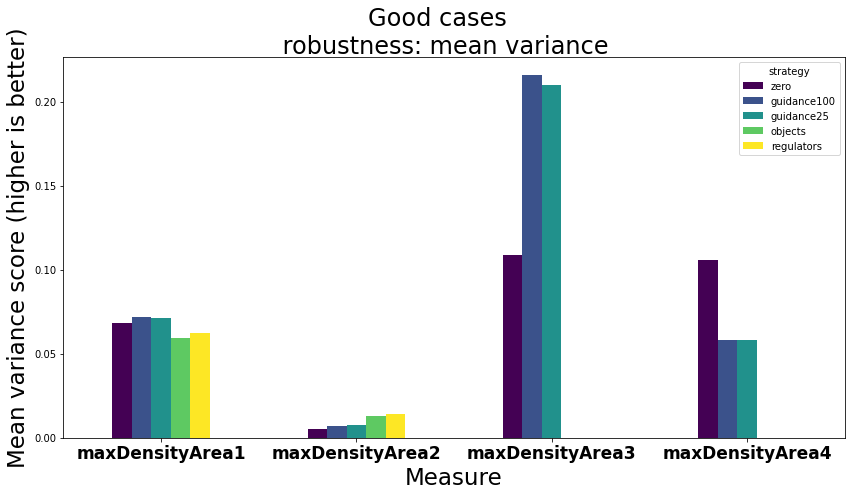
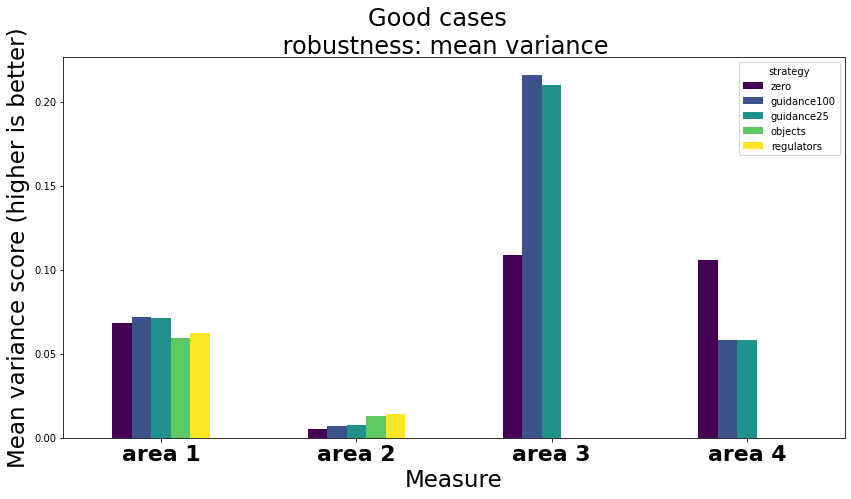
figures

diff --git a/analysis/control_exploration_results.py b/analysis/control_exploration_results.py
@@ -347,7 +347,7 @@ if __name__ == "__main__":
     fig.suptitle("Problematic cases \n robustness: mean variance", fontsize=24)
     ax.set_xlabel("Mean variance score (higher is better)", fontsize=23)
     ax.set_ylabel("Measure", fontsize=23)
-    plt.yticks(fontsize=17, weight="bold")
+    plt.yticks(fontsize=22, weight="bold")
     fig.savefig(
         "../figures/controlStrategiesMeanVarianceSpeedS1.png", bbox_inches="tight"
     )
@@ -358,7 +358,7 @@ if __name__ == "__main__":
     fig.suptitle("Good cases \n robustness: mean variance", fontsize=24)
     ax.set_xlabel("Mean variance score (higher is better)", fontsize=23)
     ax.set_ylabel("Measure", fontsize=23)
-    plt.yticks(fontsize=17, weight="bold")
+    plt.yticks(fontsize=22, weight="bold")
     fig.savefig(
         "../figures/controlStrategiesMeanVarianceSpeedS2.png", bbox_inches="tight"
     )
@@ -369,42 +369,60 @@ if __name__ == "__main__":
     fig.suptitle("worst cases \n robustness: mean variance", fontsize=24)
     ax.set_xlabel("Mean variance score (higher is better)", fontsize=23)
     ax.set_ylabel("Measure", fontsize=23)
-    plt.yticks(fontsize=17, weight="bold")
+    plt.yticks(fontsize=22, weight="bold")
     fig.savefig(
         "../figures/controlStrategiesMeanVarianceSpeedS3.png", bbox_inches="tight"
     )
 
     # plotting robustness mean variance density
     fig, ax = plt.subplots(figsize=(14, 7))
-    r_mean_variance_s1[
-        ["maxDensityArea1", "maxDensityArea2", "maxDensityArea3", "maxDensityArea4"]
-    ].T.plot.bar(ax=ax, colormap="viridis", rot=0)
+    d1 = r_mean_variance_s1.T.rename(
+        index={
+            "maxDensityArea1": "area 1",
+            "maxDensityArea2": "area 2",
+            "maxDensityArea3": "area 3",
+            "maxDensityArea4": "area 4",
+        }
+    ).drop("meanSpeed")
+    d1.plot.bar(ax=ax, colormap="viridis", rot=0)
     fig.suptitle("Problematic cases \n robustness: mean variance", fontsize=24)
     ax.set_xlabel("Measure", fontsize=23)
     ax.set_ylabel("Mean variance score (higher is better)", fontsize=23)
-    plt.xticks(fontsize=17, weight="bold")
+    plt.xticks(fontsize=22, weight="bold")
     fig.savefig(
         "../figures/controlStrategiesMeanVarianceMaxDensityS1.png", bbox_inches="tight"
     )
     fig, ax = plt.subplots(figsize=(14, 7))
-    r_mean_variance_s2[
-        ["maxDensityArea1", "maxDensityArea2", "maxDensityArea3", "maxDensityArea4"]
-    ].T.plot.bar(ax=ax, colormap="viridis", rot=0)
+    d2 = r_mean_variance_s2.T.rename(
+        index={
+            "maxDensityArea1": "area 1",
+            "maxDensityArea2": "area 2",
+            "maxDensityArea3": "area 3",
+            "maxDensityArea4": "area 4",
+        }
+    ).drop("meanSpeed")
+    d2.plot.bar(ax=ax, colormap="viridis", rot=0)
     fig.suptitle("Good cases \n robustness: mean variance", fontsize=24)
     ax.set_xlabel("Measure", fontsize=23)
     ax.set_ylabel("Mean variance score (higher is better)", fontsize=23)
-    plt.xticks(fontsize=17, weight="bold")
+    plt.xticks(fontsize=22, weight="bold")
     fig.savefig(
         "../figures/controlStrategiesMeanVarianceMaxDensityS2.png", bbox_inches="tight"
     )
     fig, ax = plt.subplots(figsize=(14, 7))
-    r_mean_variance_s3[
-        ["maxDensityArea1", "maxDensityArea2", "maxDensityArea3", "maxDensityArea4"]
-    ].T.plot.bar(ax=ax, colormap="viridis", rot=0)
+    d3 = r_mean_variance_s3.T.rename(
+        index={
+            "maxDensityArea1": "area 1",
+            "maxDensityArea2": "area 2",
+            "maxDensityArea3": "area 3",
+            "maxDensityArea4": "area 4",
+        }
+    ).drop("meanSpeed")
+    d3.plot.bar(ax=ax, colormap="viridis", rot=0)
     fig.suptitle("Worst cases \n robustness: mean variance", fontsize=24)
     ax.set_xlabel("Measure", fontsize=23)
     ax.set_ylabel("Mean variance score (higher is better)", fontsize=23)
-    plt.xticks(fontsize=17, weight="bold")
+    plt.xticks(fontsize=22, weight="bold")
     fig.savefig(
         "../figures/controlStrategiesMeanVarianceMaxDensityS3.png", bbox_inches="tight"
     )
